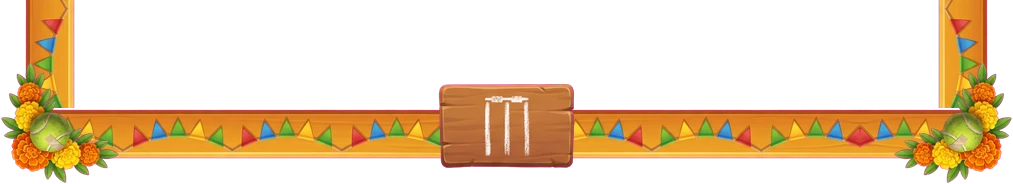
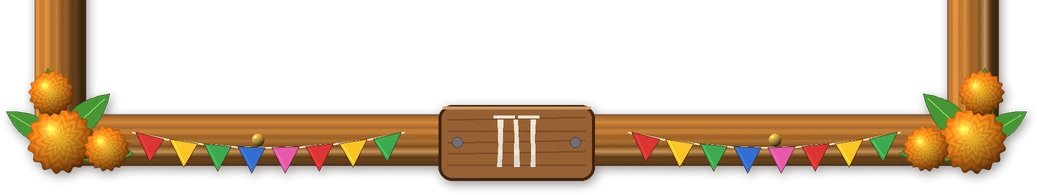
Gully border drawn fully in code to the agreed blueprint
Claude-Session: https://claude.ai/code/session_01EnXvJ6P6HcGRxjBSnYPdAU

diff --git a/www/assets/v22.js b/www/assets/v22.js
@@ -70,7 +70,7 @@
 
   // ── 2. FINALS: a full league bar unlocks that league's Final; winning it lifts the cup and opens the next league
   const kfmt = n => n >= 1000 ? (Math.round(n / 100) / 10).toString().replace(/\.0$/, '') + 'K' : fmt(n);
-  const FRAMES = new Set([1, 18, 21]), BADGES = new Set([...Array(27).keys()].map(i => i + 1)), FDIM = { 5: [0.25, 0.2214], 7: [0.3271, 0.24], 8: [0.4686, 0.3886], 2: [0.3814, 0.3329], 3: [0.3471, 0.3629], 4: [0.3257, 0.3529], 1: [0.2142, 0.1816], 6: [0.289, 0.2475], 16: [0.2241, 0.2241], 18: [0.2, 0.1834], 21: [0.228, 0.2052] };
+  const FRAMES = new Set([1]), BADGES = new Set([...Array(27).keys()].map(i => i + 1)), FDIM = { 5: [0.25, 0.2214], 7: [0.3271, 0.24], 8: [0.4686, 0.3886], 2: [0.3814, 0.3329], 3: [0.3471, 0.3629], 4: [0.3257, 0.3529], 1: [0.1832, 0.188], 6: [0.289, 0.2475], 16: [0.2241, 0.2241], 18: [0.2, 0.1834], 21: [0.228, 0.2052] };
   function F() { const f = sec('finals'); if (!f.won) { f.won = {}; f.ready = {}; const hi = highestLeagueIdx(); for (let i = 1; i < hi; i++) f.won[i] = 1; save(); } return f; }
   const finalWon = i => !!F().won[i], finalReady = i => !!F().ready[i] && !F().won[i];
   const cupsWon = () => Object.keys(F().won).filter(k => +k >= 1).length;
@@ -401,7 +401,7 @@
   .tcard .lockx.st.open .chn img.padb,.lockx.st.open img.padb{animation:none!important}
   .v2pz2 .g:not(.f){flex:0 0 40%!important}.v2pz2 .g:not(.f) .row{gap:4px;justify-content:space-around}.v2pz2 .g:not(.f) .row span{font-size:11.5px;letter-spacing:-.2px}.v2pz2 .g.f .row{gap:3px}.v2pz2 .g.f .row span{font-size:11.5px;letter-spacing:-.2px}
   .tcard.pt.tf:not([data-lg="6"]):not([data-lg="16"])::before{border-radius:28px}.tcard.pt.tf::after{z-index:40!important;pointer-events:none;--cw:calc(100cqw + 2 * var(--pad,22px));--fw:calc(var(--cw) * (1 + 2 * var(--fside,0)));left:calc(var(--cw) * var(--fside,0) * -1);right:calc(var(--cw) * var(--fside,0) * -1)}
-  .tcard.pt.tf[data-lg="1"]{--hl:0.075;--hr:0.925;--ht:0.1076;--hb:0.075}.tcard.pt.tf[data-lg="2"]{--hl:0.1329;--hr:0.8671;--ht:0.2629;--hb:0.2143}.tcard.pt.tf[data-lg="3"]{--hl:0.1014;--hr:0.9;--ht:0.2329;--hb:0.1557}.tcard.pt.tf[data-lg="4"]{--hl:0.1171;--hr:0.8814;--ht:0.2686;--hb:0.0929}.tcard.pt.tf[data-lg="5"]{--hl:0.0943;--hr:0.9057;--ht:0.1657;--hb:0.1314}.tcard.pt.tf[data-lg="6"]{--hl:0.088;--hr:0.912;--ht:0.2442;--hb:0.1346}.tcard.pt.tf[data-lg="7"]{--hl:0.1543;--hr:0.8443;--ht:0.2;--hb:0.1571}.tcard.pt.tf[data-lg="8"]{--hl:0.1557;--hr:0.8457;--ht:0.2514;--hb:0.1729}.tcard.pt.tf[data-lg="16"]{--hl:0.0833;--hr:0.9195;--ht:0.1609;--hb:0.1106}.tcard.pt.tf[data-lg="18"]{--hl:0.0539;--hr:0.9461;--ht:0.0705;--hb:0.0539}.tcard.pt.tf[data-lg="21"]{--hl:0.0539;--hr:0.9461;--ht:0.0984;--hb:0.0756}.tcard.pt.tf::after{--tw:calc(100cqw + 2 * var(--pad,22px));--fw:calc(var(--tw) / (var(--hr) - var(--hl)));left:calc(0px - var(--fw) * var(--hl))!important;right:auto!important;width:var(--fw)!important;top:calc(0px - var(--fw) * var(--ht))!important;bottom:calc(0px - var(--fw) * var(--hb))!important;z-index:40!important;pointer-events:none}
+  .tcard.pt.tf[data-lg="1"]{--hl:0.0829;--hr:0.9132;--ht:0.0733;--hb:0.0781}.tcard.pt.tf[data-lg="2"]{--hl:0.1329;--hr:0.8671;--ht:0.2629;--hb:0.2143}.tcard.pt.tf[data-lg="3"]{--hl:0.1014;--hr:0.9;--ht:0.2329;--hb:0.1557}.tcard.pt.tf[data-lg="4"]{--hl:0.1171;--hr:0.8814;--ht:0.2686;--hb:0.0929}.tcard.pt.tf[data-lg="5"]{--hl:0.0943;--hr:0.9057;--ht:0.1657;--hb:0.1314}.tcard.pt.tf[data-lg="6"]{--hl:0.088;--hr:0.912;--ht:0.2442;--hb:0.1346}.tcard.pt.tf[data-lg="7"]{--hl:0.1543;--hr:0.8443;--ht:0.2;--hb:0.1571}.tcard.pt.tf[data-lg="8"]{--hl:0.1557;--hr:0.8457;--ht:0.2514;--hb:0.1729}.tcard.pt.tf[data-lg="16"]{--hl:0.0833;--hr:0.9195;--ht:0.1609;--hb:0.1106}.tcard.pt.tf[data-lg="18"]{--hl:0.0539;--hr:0.9461;--ht:0.0705;--hb:0.0539}.tcard.pt.tf[data-lg="21"]{--hl:0.0539;--hr:0.9461;--ht:0.0984;--hb:0.0756}.tcard.pt.tf::after{--tw:calc(100cqw + 2 * var(--pad,22px));--fw:calc(var(--tw) / (var(--hr) - var(--hl)));left:calc(0px - var(--fw) * var(--hl))!important;right:auto!important;width:var(--fw)!important;top:calc(0px - var(--fw) * var(--ht))!important;bottom:calc(0px - var(--fw) * var(--hb))!important;z-index:40!important;pointer-events:none}
   #v2deck .v2rail{gap:90px!important}
   .tcard.pt:not(.tf)::after{border:0!important;border-image:none!important}
   .tcard.pt.tf::before{inset:0!important;border-radius:4px!important}
